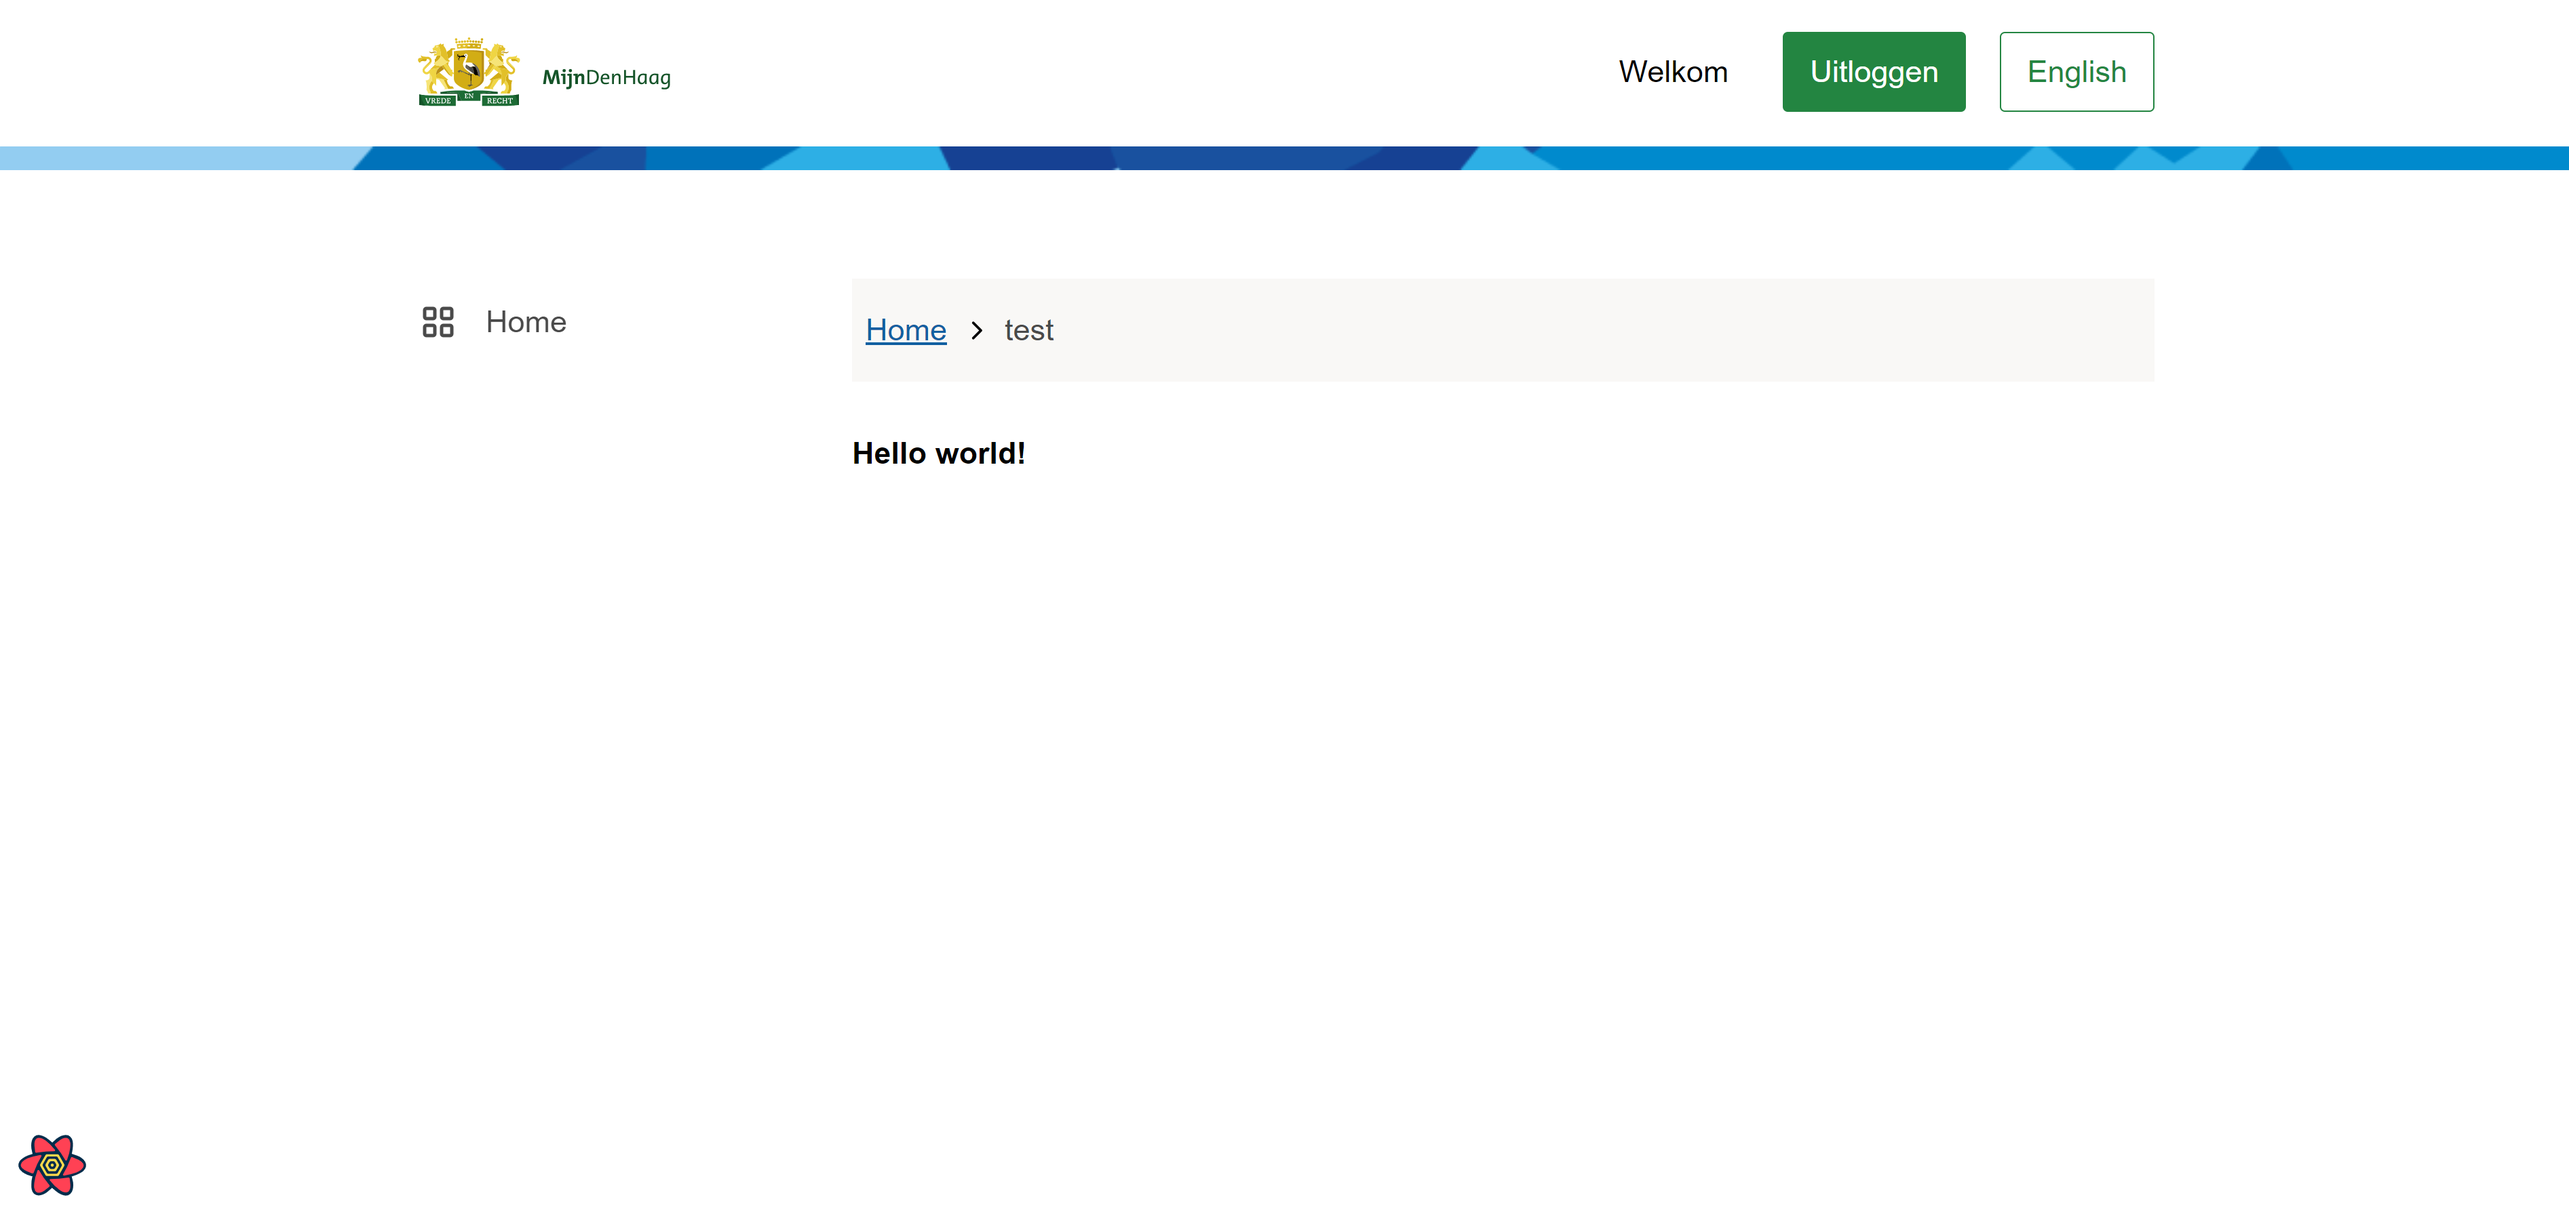
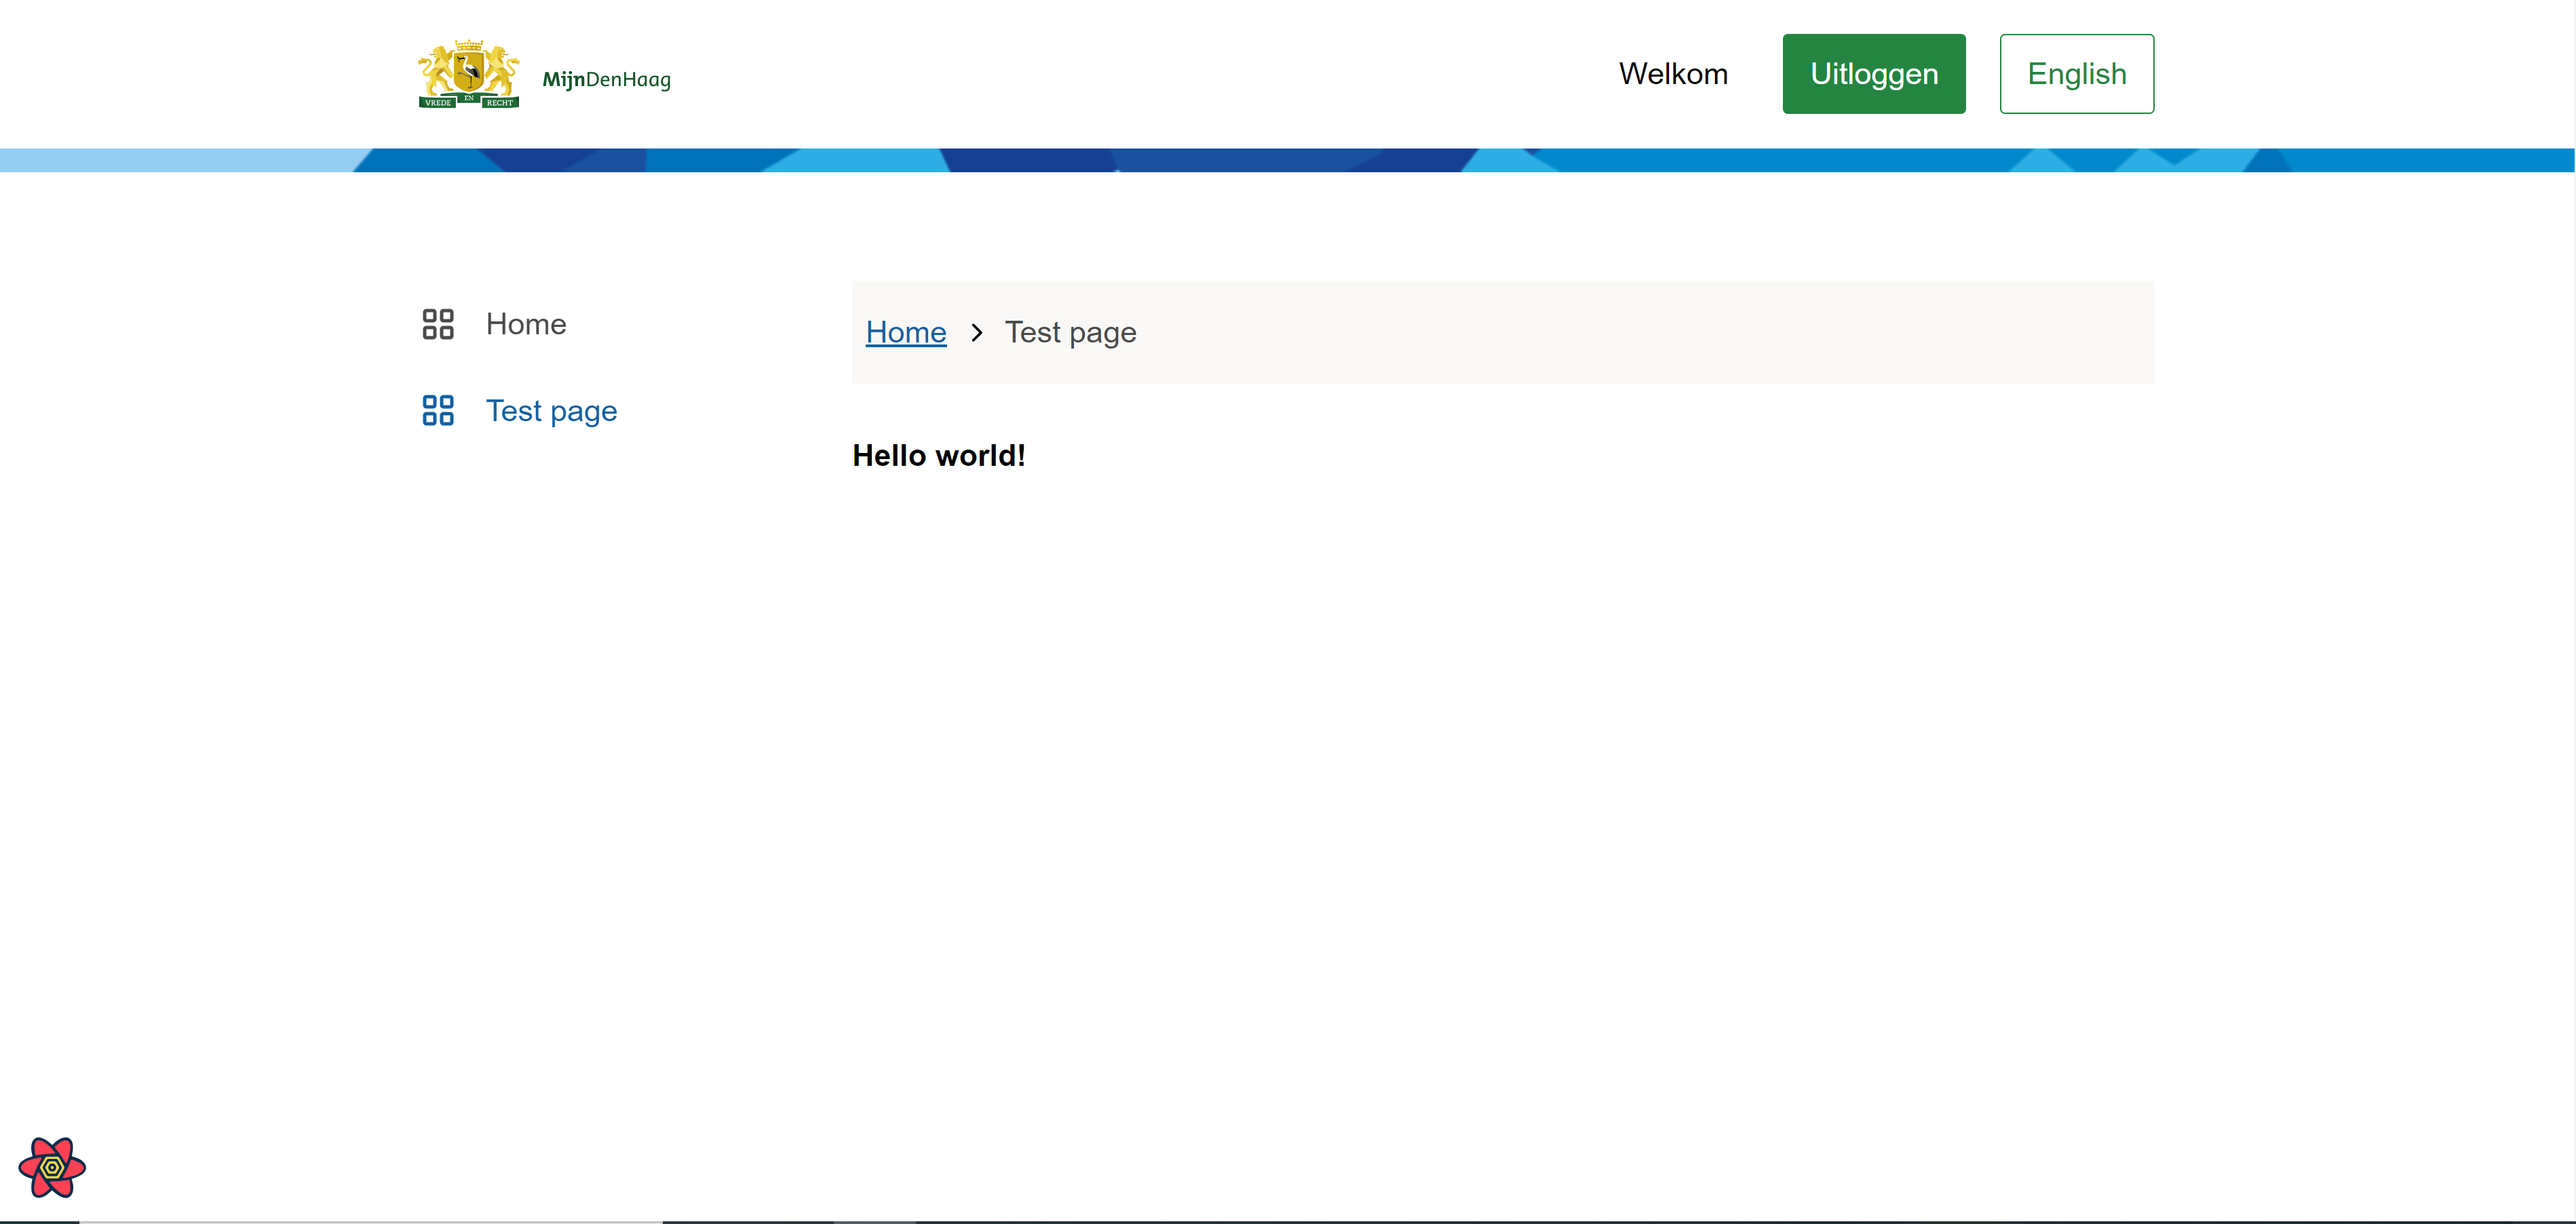
added text for adding menuItems

diff --git a/doc/developing_skeleton.md b/doc/developing_skeleton.md
@@ -46,8 +46,19 @@ export const TestTemplate: React.FC = () => {
 };
 ```
 
-Now navigate to localhost:8000/test. 
-You should see this: 
+Now we only have to add a sidenav item for this page to navigate to it. 
+This can be done in the DashboardTemplate. There is a const menuItems, here you can add a new item.
+
+The menuItems const should look like this
+```TypeScript
+const menuItems: MenuItem[] = [
+  { label: t("Home"), href: "/", current: pathname === "/", icon: <GridIcon /> },
+  { label: t("Test page"), href: "/testFolder", current: pathname === "/testFolder", icon: <GridIcon /> }
+];
+```
+
+Now navigate to localhost:8000 then click on the sideNav item 'Test page'
+You should see this:
 
 ![Example](./images/testPage.png)
 
@@ -108,5 +119,6 @@ crumbLabelUpdates: [
 Restart the development server. The breadcrumbs should look like this. 
 
 ![Example](./images/breadcrumbs.png)
+
 
 ---
